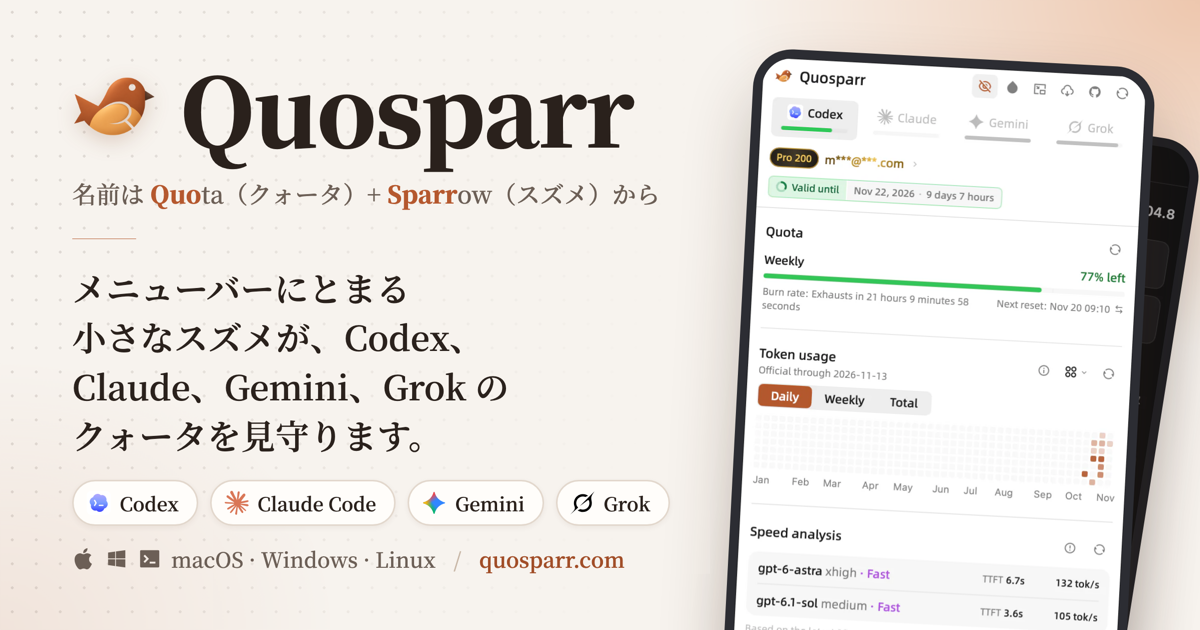
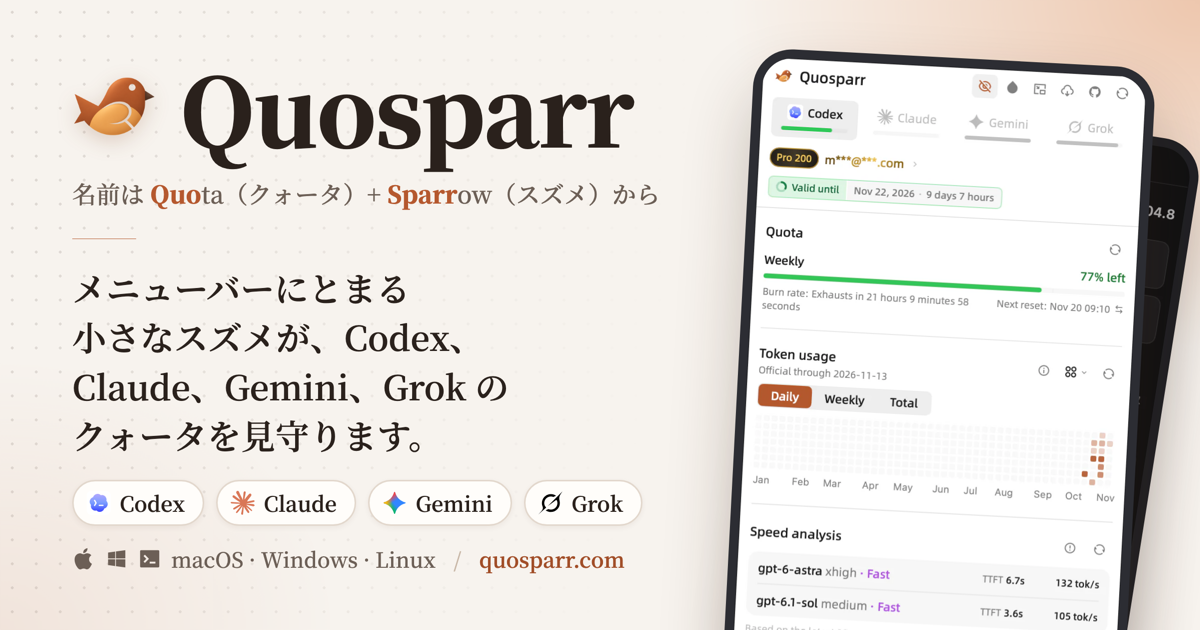
docs: 介绍与订阅用量中的 Claude Code 改称 Claude
- Quosparr 同时覆盖 Claude Code 与 Claude Desktop，介绍、官网标题与描述、功能导语、订阅用量条目和分享图标签统一写作 Claude
- 本机会话日志、~/.claude 配置、切号后在 Claude Code 中生效等专指 CLI 的说法保持不变

Changed region(s): [[0.0925, 0.754, 0.555, 0.8444]]

diff --git a/README_RU.md b/README_RU.md
@@ -10,7 +10,7 @@
 
 Маленький воробей в строке меню, который присматривает за квотами Codex, Claude, Gemini и Grok.
 
-Quosparr — нативное приложение для строки меню / системного трея на macOS, Windows и Linux. Оно показывает квоты Codex, подписки Claude Code, Gemini (Google Antigravity) и Grok, reset credits, эквивалентную стоимость API и локальные сессии, а также отдельное управление аккаунтами для каждого провайдера. Глобальными навыками, серверами MCP и локальными сессиями всех четырёх провайдеров можно управлять в одном месте.
+Quosparr — нативное приложение для строки меню / системного трея на macOS, Windows и Linux. Оно показывает квоты Codex, подписки Claude, Gemini (Google Antigravity) и Grok, reset credits, эквивалентную стоимость API и локальные сессии, а также отдельное управление аккаунтами для каждого провайдера. Глобальными навыками, серверами MCP и локальными сессиями всех четырёх провайдеров можно управлять в одном месте.
 
 </div>
 
@@ -28,7 +28,7 @@ Quosparr — нативное приложение для строки меню 
 
 **Claude**
 
-- Использование подписки Claude Code: 5-часовое окно, 7-дневное окно, недельные окна по моделям и дополнительное использование. Это чтение не является документированным публичным API биллинга.
+- Использование подписки Claude: 5-часовое окно, 7-дневное окно, недельные окна по моделям и дополнительное использование. Это чтение не является документированным публичным API биллинга.
 - Локальные логи сессий Claude Code дают использование токенов, эквивалентную стоимость API (`anthropic-builtin-2026-10-14`), недавние сессии и скорость вывода. Один ответ считается один раз. Неизвестным моделям не назначается точная стоимость. В логах нет времени до первого токена, поэтому в этой колонке «—», а скорость считается по времени от начала до конца.
 - Аккаунты подписки: вход через браузер без предварительного запуска CLI, импорт текущего входа, вставка учётных данных или импорт файла. Вход через браузер поддерживает отмену и вставку обратного вызова, добавляет аккаунт только в библиотеку; для использования в Claude Code нужно явно переключиться. Quosparr не обновляет текущий аккаунт; если вход истёк, один раз запустите `claude`. Остальные управляемые аккаунты обновляются только в своих копиях библиотеки.
 - На macOS официальные учётные данные остаются в Связке ключей и читаются и записываются через `/usr/bin/security`. В Windows и Linux это `<config>/.credentials.json`. Переключение заменяет только `claudeAiOauth`, сохраняет токены MCP и обновляет только `oauthAccount` в `.claude.json`. Работающий процесс Claude Code не завершается и может записать прежний вход обратно, поэтому перед переключением показывается предупреждение.
@@ -163,7 +163,7 @@ Quosparr — нативное приложение для строки меню 
 - **Квота Codex / reset credits / официальное использование**: официальные backend API ChatGPT / Codex с вашими локальными учётными данными. Официальное использование относится к текущему аккаунту и может запаздывать или пересматриваться.
 - **Оценка недельной квоты**: неофициальная, экстраполируется из недельного процента и дневных Credits (1000 Credits ≈ $40, версия `credits-usd-2026-08-26`). В `quota-estimate-history.json` сохраняются только производные Credits и проценты.
 - **Эквивалентная стоимость API Codex**: локальные журналы сессий, оценённые по встроенному прайсу `openai-builtin-2026-09-27`; поддерживаемые текущие ставки берутся из models.dev с сохранением проверенных встроенных правил. Неизвестные модели не выдаются как точная стоимость.
-- **Использование подписки Claude Code**: недокументированная конечная точка OAuth usage. Она относится только к текущей подписке Claude Code и не называется официальным API биллинга. Cookie браузера и счёт Console API не читаются; профилями Desktop управляет только отдельная функция с явным подтверждением, описанная выше.
+- **Использование подписки Claude**: недокументированная конечная точка OAuth usage. Она относится только к текущей подписке Claude и не называется официальным API биллинга. Cookie браузера и счёт Console API не читаются; профилями Desktop управляет только отдельная функция с явным подтверждением, описанная выше.
 - **Эквивалентная стоимость API Claude**: локальные журналы сессий Claude Code и таблица `anthropic-builtin-2026-10-14`. Один ответ считается один раз по идентификатору сообщения. Запись в кэш делится на 5 минут и 1 час, тариф Fast считается отдельно. Неизвестным моделям не назначается точная стоимость. Сутки считаются в местном часовом поясе.
 - **Квота Gemini**: недокументированные конечные точки Cloud Code, которыми пользуются клиенты Antigravity (`cloudcode-pa.googleapis.com` / `daily-cloudcode-pa.googleapis.com`); токены обновляются через Google OAuth (`oauth2.googleapis.com`), а аккаунт определяется по ID-токену или Google userinfo. Это не называется официальным API биллинга. Тариф берётся из платного уровня, иначе из текущего. Если Google требует подтверждения или подписки, сохраняется предыдущее значение.
 - **Эквивалентная стоимость API Gemini**: использование токенов из локальных баз разговоров App (`~/.gemini/antigravity`) и `agy` (`~/.gemini/antigravity-cli`), всегда читаемых из закрытых временных копий; цены берутся только из синхронизированного каталога models.dev (тарифы Google для моделей Gemini, тарифы Anthropic для моделей Claude). Записи в кэш Anthropic и неизвестные модели не получают точной стоимости. Зашифрованные разговоры считаются нечитаемыми.

diff --git a/README_FR.md b/README_FR.md
@@ -10,7 +10,7 @@
 
 Un petit moineau perché dans votre barre de menus, qui veille sur vos quotas Codex, Claude, Gemini et Grok.
 
-Quosparr est une application native de barre de menus / zone de notification pour macOS, Windows et Linux. Elle affiche les quotas Codex, d’abonnement Claude Code, Gemini (Google Antigravity) et Grok, les reset credits, le coût équivalent API et les sessions locales, avec une gestion des comptes séparée pour chaque fournisseur. Les skills globaux, les serveurs MCP et les sessions locales des quatre fournisseurs se gèrent au même endroit.
+Quosparr est une application native de barre de menus / zone de notification pour macOS, Windows et Linux. Elle affiche les quotas Codex, d’abonnement Claude, Gemini (Google Antigravity) et Grok, les reset credits, le coût équivalent API et les sessions locales, avec une gestion des comptes séparée pour chaque fournisseur. Les skills globaux, les serveurs MCP et les sessions locales des quatre fournisseurs se gèrent au même endroit.
 
 </div>
 
@@ -28,7 +28,7 @@ Quosparr est une application native de barre de menus / zone de notification pou
 
 **Claude**
 
-- Usage d’abonnement Claude Code : fenêtre de 5 heures, fenêtre de 7 jours, fenêtres hebdomadaires par modèle et usage supplémentaire. Cette lecture n’est pas une API de facturation publique documentée.
+- Usage d’abonnement Claude : fenêtre de 5 heures, fenêtre de 7 jours, fenêtres hebdomadaires par modèle et usage supplémentaire. Cette lecture n’est pas une API de facturation publique documentée.
 - Les journaux de session locaux de Claude Code donnent l’usage de jetons, le coût équivalent API (`anthropic-builtin-2026-10-14`), les sessions récentes et la vitesse de sortie. Une même réponse n’est comptée qu’une fois. Les modèles inconnus n’ont pas de coût exact. Les journaux n’ont pas l’instant du premier jeton : cette colonne affiche « — » et la vitesse utilise la durée de bout en bout.
 - Comptes d’abonnement : connexion par navigateur sans lancer le CLI au préalable, import de la connexion actuelle, collage des identifiants ou import d’un fichier. La connexion par navigateur permet l’annulation et le collage du rappel, ajoute seulement le compte à la bibliothèque et exige un basculement explicite pour l’utiliser dans Claude Code. Quosparr n’actualise pas le compte actuel ; si la connexion expire, lancez `claude` une fois. Les autres comptes gérés ne sont actualisés que dans leurs copies de bibliothèque.
 - Sur macOS, l’identifiant officiel reste dans le trousseau et passe par `/usr/bin/security`. Sous Windows et Linux, c’est `<config>/.credentials.json`. Un basculement ne remplace que `claudeAiOauth`, conserve les jetons MCP et ne met à jour que `oauthAccount` dans `.claude.json`. Un processus Claude Code en cours n’est pas arrêté et peut réécrire l’ancienne connexion ; l’app prévient avant le basculement.
@@ -163,7 +163,7 @@ Les changements ne s’appliquent qu’après **Enregistrer le proxy**. **Tester
 - **Quota Codex / reset credits / usage officiel** : API backend officielles ChatGPT / Codex, avec vos identifiants locaux. L’usage officiel appartient au compte actuel et peut être en retard ou révisé.
 - **Estimation du quota hebdomadaire** : non officielle, extrapolée à partir du pourcentage hebdomadaire et des Credits journaliers (1000 Credits ≈ 40 $, version `credits-usd-2026-08-26`). Seuls les Credits et pourcentages dérivés sont enregistrés dans `quota-estimate-history.json`.
 - **Coût équivalent API Codex** : journaux de session locaux valorisés avec la table intégrée `openai-builtin-2026-09-27` ; les tarifs actuels pris en charge viennent de models.dev en conservant les règles intégrées vérifiées. Les modèles inconnus ne sont pas présentés comme des coûts exacts.
-- **Usage d’abonnement Claude Code** : un point d’accès OAuth usage non documenté. Il ne concerne que l’abonnement Claude Code actuel et n’est pas présenté comme une API de facturation officielle. Ni cookies du navigateur ni facture API de la Console ; les profils Desktop sont gérés uniquement par la fonction distincte et explicitement confirmée décrite ci-dessus.
+- **Usage d’abonnement Claude** : un point d’accès OAuth usage non documenté. Il ne concerne que l’abonnement Claude actuel et n’est pas présenté comme une API de facturation officielle. Ni cookies du navigateur ni facture API de la Console ; les profils Desktop sont gérés uniquement par la fonction distincte et explicitement confirmée décrite ci-dessus.
 - **Coût équivalent API Claude** : journaux de session locaux de Claude Code et table `anthropic-builtin-2026-10-14`. Une réponse n’est comptée qu’une fois, par identifiant de message. Les écritures de cache sont séparées en 5 minutes et 1 heure, et le tarif Fast est distinct. Les modèles inconnus n’ont pas de coût exact. Les jours suivent le fuseau local.
 - **Quota Gemini** : les points d’accès Cloud Code non documentés qu’utilisent les clients Antigravity (`cloudcode-pa.googleapis.com` / `daily-cloudcode-pa.googleapis.com`), avec des jetons renouvelés via Google OAuth (`oauth2.googleapis.com`) et l’identité tirée de l’ID token ou de Google userinfo. Il n’est pas présenté comme une API de facturation officielle. La formule vient du niveau payant, sinon du niveau actuel. Quand Google demande une vérification ou un abonnement, la lecture précédente est conservée.
 - **Coût équivalent API Gemini** : usage des jetons tiré des bases de conversations locales de l’app (`~/.gemini/antigravity`) et de `agy` (`~/.gemini/antigravity-cli`), toujours lues depuis une copie temporaire privée, et tarifé uniquement avec le catalogue models.dev synchronisé (tarifs Google pour les modèles Gemini, tarifs Anthropic pour les modèles Claude). Les écritures de cache Anthropic et les modèles inconnus n’ont pas de coût exact. Les conversations chiffrées sont comptées comme illisibles.

diff --git a/README.md b/README.md
@@ -10,7 +10,7 @@ English · [简体中文](./README_ZH.md) · [繁體中文](./README_ZH_HANT.md)
 
 A small sparrow perched in your menu bar, keeping watch over your Codex, Claude, Gemini, and Grok quota.
 
-Quosparr is a native menu bar / system tray app for macOS, Windows, and Linux. It shows Codex, Claude Code, Gemini (Google Antigravity), and Grok subscription quota, reset credits, API-equivalent cost, and local sessions, with separate account management for each provider. Global skills, MCP servers and local sessions for all four can be managed in one place.
+Quosparr is a native menu bar / system tray app for macOS, Windows, and Linux. It shows Codex, Claude, Gemini (Google Antigravity), and Grok subscription quota, reset credits, API-equivalent cost, and local sessions, with separate account management for each provider. Global skills, MCP servers and local sessions for all four can be managed in one place.
 
 </div>
 
@@ -28,7 +28,7 @@ Quosparr is a native menu bar / system tray app for macOS, Windows, and Linux. I
 
 **Claude**
 
-- Claude Code subscription usage for the 5-hour window, the 7-day window, per-model weekly windows, and extra usage. This reading is not a documented public billing API.
+- Claude subscription usage for the 5-hour window, the 7-day window, per-model weekly windows, and extra usage. This reading is not a documented public billing API.
 - Local token usage, API-equivalent cost (`anthropic-builtin-2026-10-14`), recent sessions, and output speed from Claude Code session logs. Each reply is counted once. Unknown models are not given an exact cost. The logs have no time-to-first-token, so that column is an em dash and speed uses end-to-end time.
 - Subscription accounts: sign in through the browser without running the CLI first, import the current login, paste credentials, or import a file; browser sign-in supports cancellation and pasting the callback, adds only to the account library, and requires an explicit switch to use the account in Claude Code. Quosparr does not refresh the current account; run `claude` once if the login expires. Other managed accounts refresh into their library copies only.
 - On macOS the official credential stays in the Keychain and is read and written through `/usr/bin/security`. On Windows and Linux it is `<config>/.credentials.json`. A switch replaces only `claudeAiOauth`, keeps MCP tokens, and updates only `oauthAccount` in `.claude.json`. A running Claude Code process is not terminated and may write the previous login back, so the app warns before switching.
@@ -163,7 +163,7 @@ Changes apply only after **Save Proxy Settings**. **Test Connection** fetches th
 - **Codex quota / reset credits / official usage**: official ChatGPT / Codex backend APIs, using your local credentials. Official usage belongs to the current account and may lag or be revised.
 - **Weekly quota estimate**: unofficial, extrapolated from the weekly percent and daily Credits (1000 Credits ≈ $40, version `credits-usd-2026-08-26`). Only derived Credits and percents are saved in `quota-estimate-history.json`.
 - **Codex API-equivalent cost**: local session logs priced with the built-in table `openai-builtin-2026-09-27`; supported current rates come from models.dev with verified built-in rules preserved. Unknown models are not reported as exact costs.
-- **Claude Code subscription usage**: an undocumented OAuth usage endpoint for the signed-in Claude Code subscription. It is not described as an official billing API. No browser cookies or Console API bill; Desktop profiles are managed only by the separate, explicitly confirmed feature above.
+- **Claude subscription usage**: an undocumented OAuth usage endpoint for the signed-in Claude subscription. It is not described as an official billing API. No browser cookies or Console API bill; Desktop profiles are managed only by the separate, explicitly confirmed feature above.
 - **Claude API-equivalent cost**: local Claude Code session logs priced with `anthropic-builtin-2026-10-14`. Replies are counted once by message id. Cache writes are split into 5-minute and 1-hour rates, and Fast mode has its own rates. Unknown models are not reported as exact costs. Days use the local time zone.
 - **Gemini quota**: the undocumented Cloud Code endpoints the Antigravity clients use (`cloudcode-pa.googleapis.com` / `daily-cloudcode-pa.googleapis.com`), with tokens renewed through Google OAuth (`oauth2.googleapis.com`) and the identity taken from the ID token or Google userinfo. It is not described as an official billing API. The tier comes from the paid tier, else the current tier. When Google asks for verification or a subscription, the previous reading is kept.
 - **Gemini API-equivalent cost**: token usage from the local conversation databases of the App (`~/.gemini/antigravity`) and `agy` (`~/.gemini/antigravity-cli`), always read from a private temporary copy, priced only with the synced models.dev catalog (Google rates for Gemini models, Anthropic rates for Claude models). Anthropic cache writes and unknown models are not given an exact cost. Encrypted conversations are counted as unreadable.
